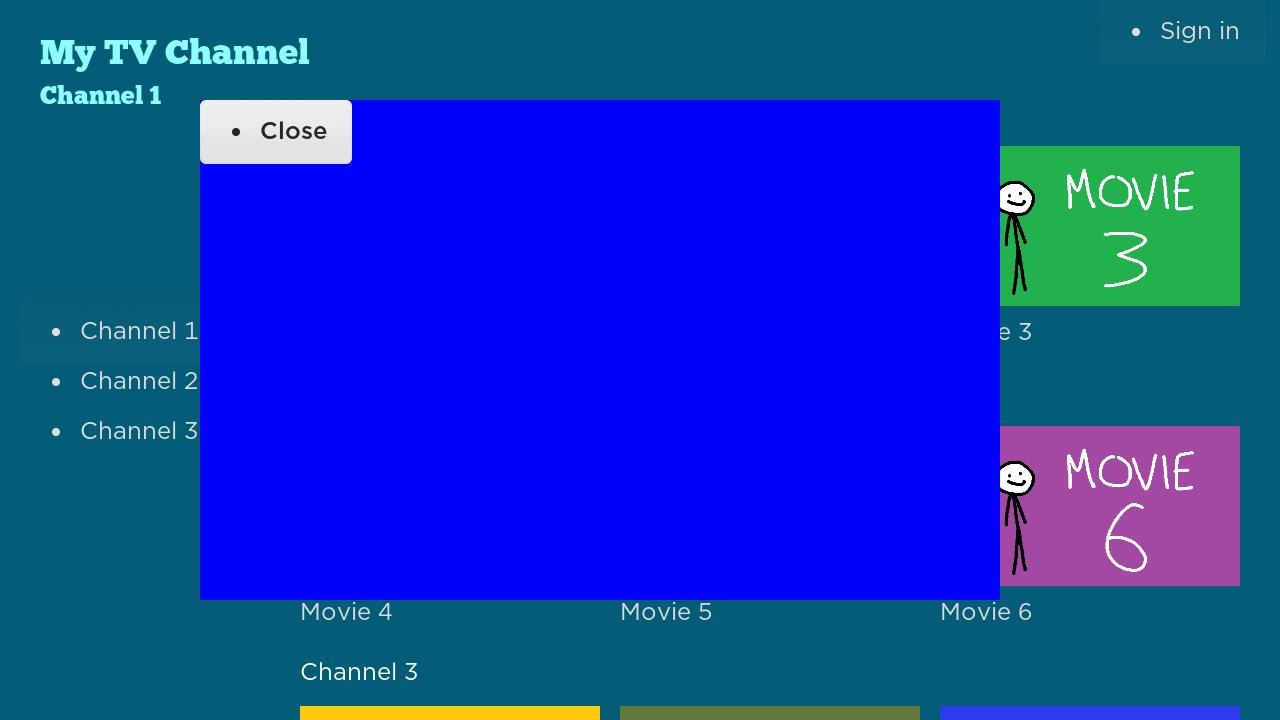
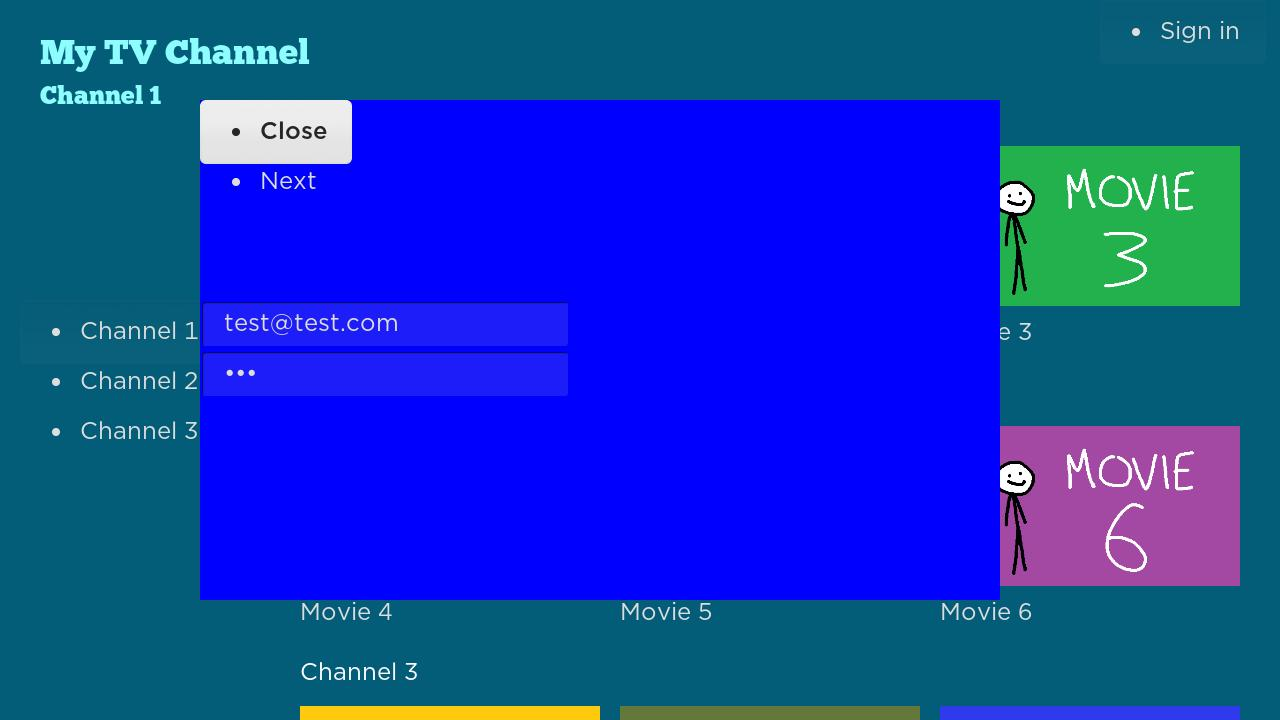
update readme

Changed region(s): [[0.1562, 0.3972, 0.4688, 0.55], [0.1562, 0.2444, 0.25, 0.275]]

diff --git a/24-sign_in-03/README.md b/24-sign_in-03/README.md
@@ -1,4 +1,7 @@
-A rectangle is displayed when the "sign in" button is pressed.
+A sign in pop up is displayed when the "sign in" button is pressed. The user can enter an email and password. If the credentials are correct the "successful sign in" toast is displayed.
 <br>
 <img src="dev.jpg" width=300><br>
 <img src="dev (1).jpg" width=300><br>
+<img src="dev (2).jpg" width=300><br>
+<img src="dev (3).jpg" width=300><br>
+<img src="dev (4).jpg" width=300><br>
